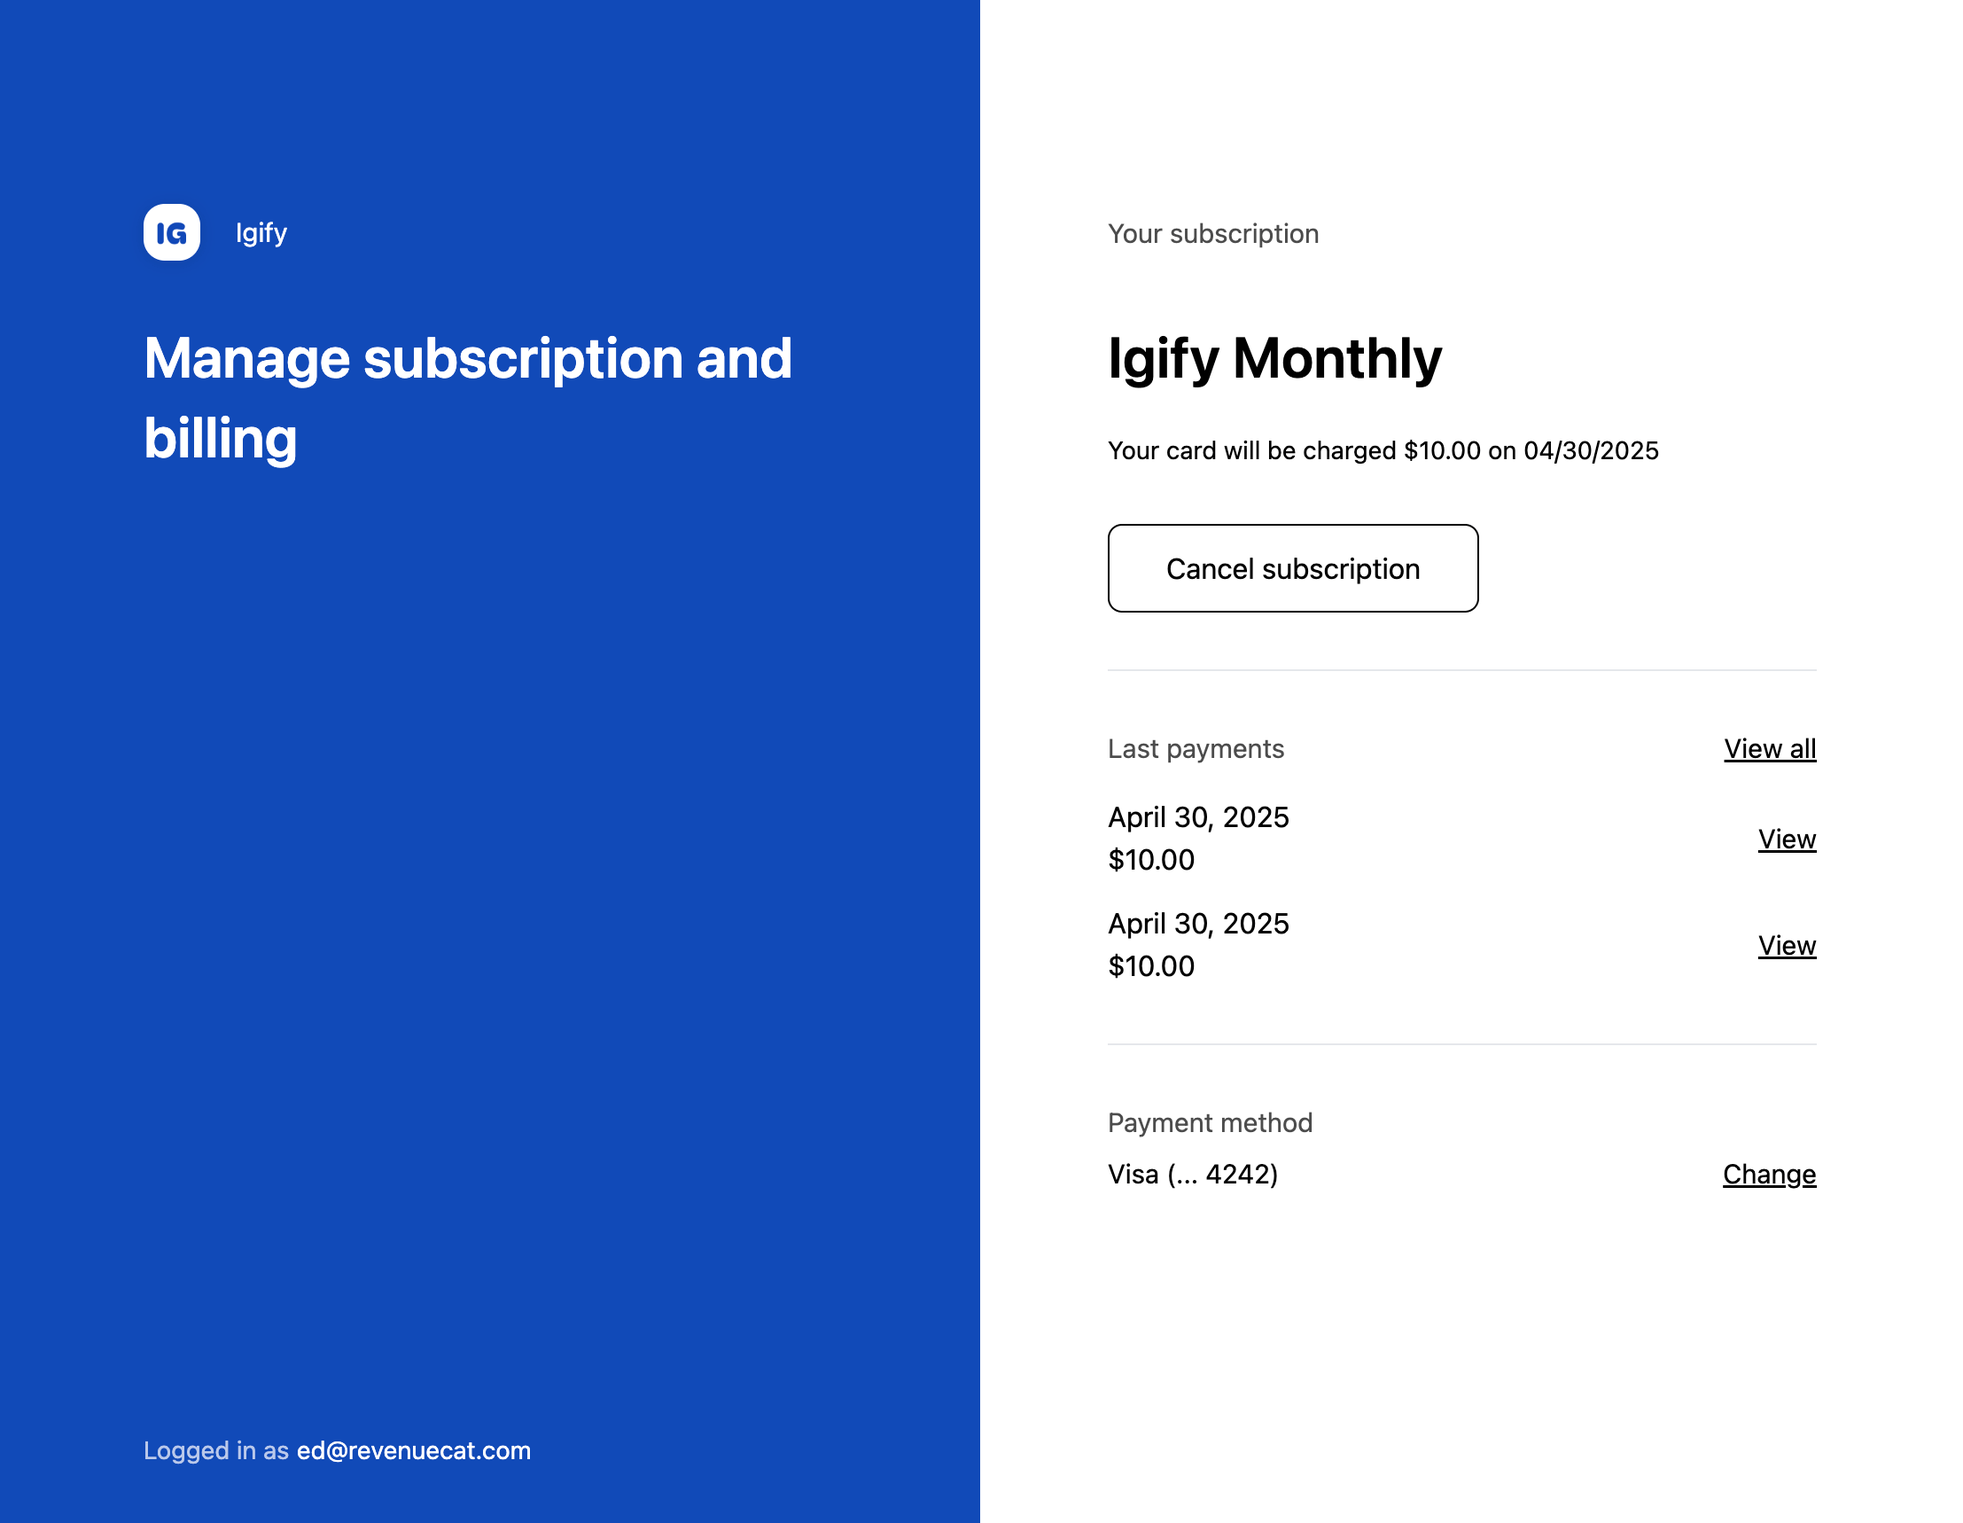
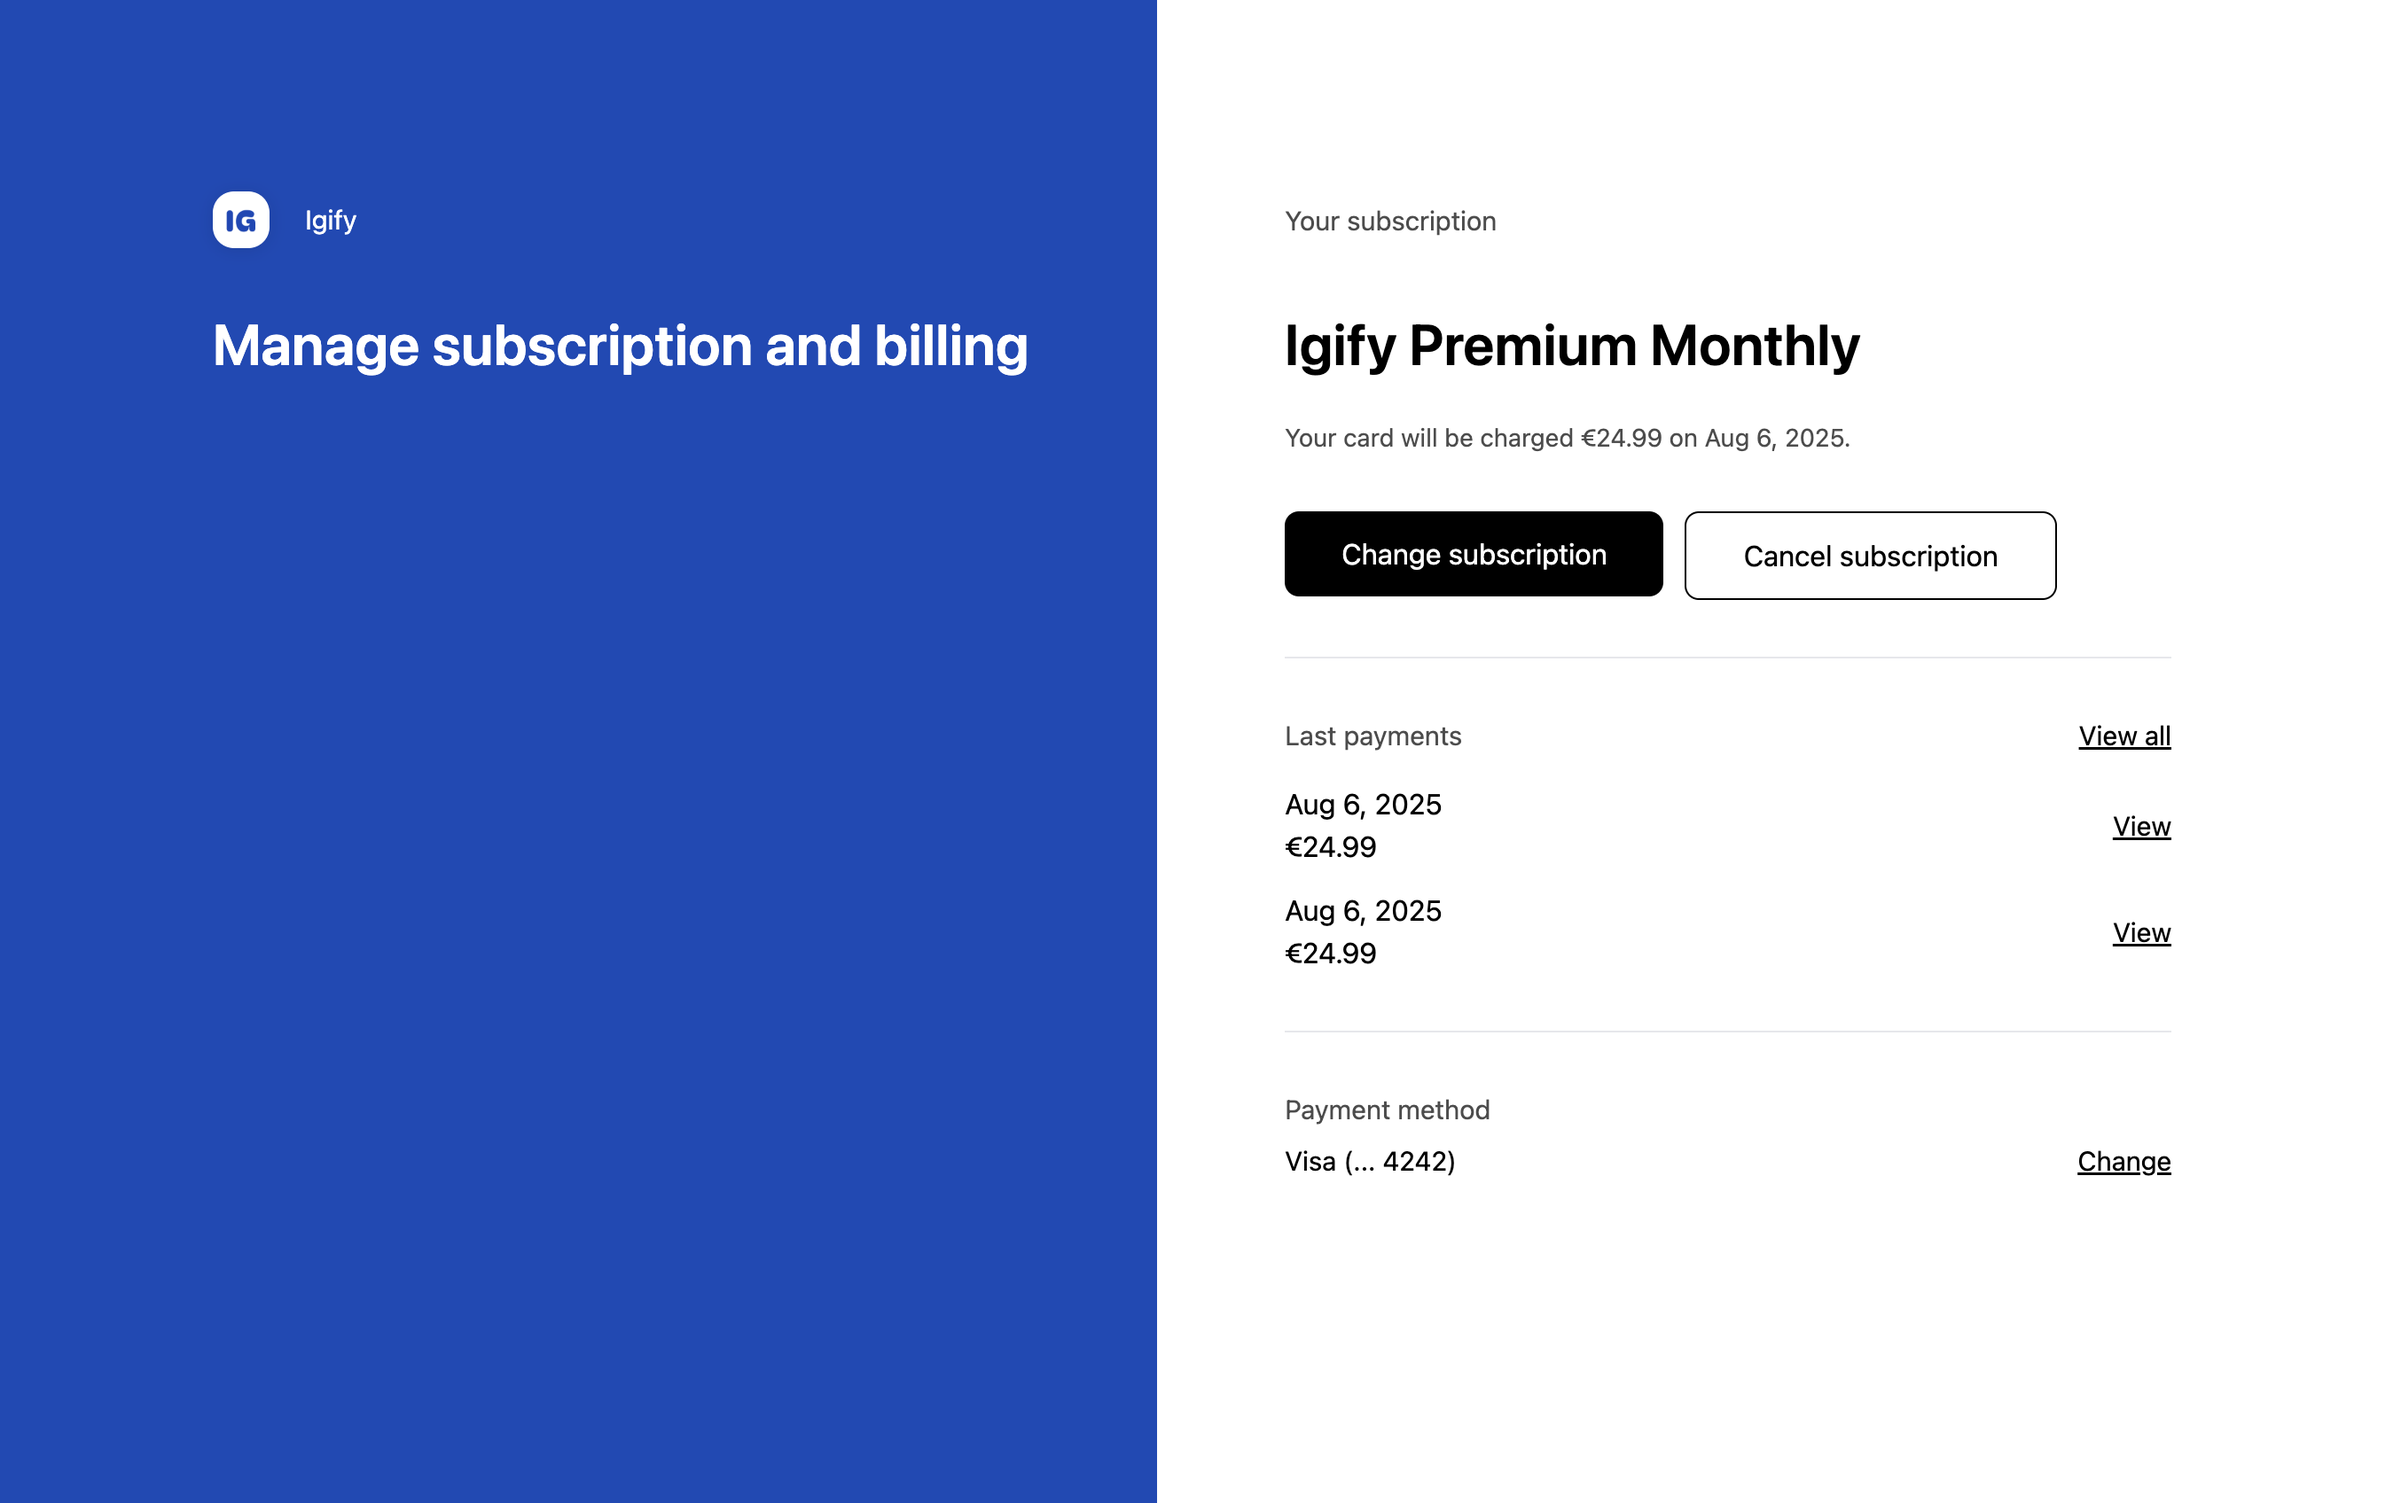
[Web Billing] Subscription upgrades (#1053)
* Documentation of subscription upgrades

* changes to customer portal page

* Update docs/web/web-billing/product-setup.md

* Update docs/web/web-billing/customer-portal.mdx

* Update docs/web/web-billing/product-setup.md

* Update docs/web/web-billing/product-setup.md

* Add note about beta access

---------

diff --git a/docs/web/web-billing/product-setup.md b/docs/web/web-billing/product-setup.md
@@ -1,9 +1,19 @@
 ---
 title: Configure Products & Prices
+
 slug: product-setup
-excerpt: Setting up your web products and pricing structure
+excerpt: Setting up your web products, pricing structure and upgrade paths
 hidden: false
 ---
+
+# Configure Web Billing products & prices
+
+Web Billing products are created and managed within the RevenueCat Dashboard.
+
+On this page, you can learn how to:
+
+- [Create a product and configure its pricing](#creating-a-new-web-billing-product)
+- [Configure subscription changes](#configure-subscription-changes)
 
 ## Creating a new web billing product
 
@@ -15,7 +25,7 @@ To create a new Web Billing product, log in to the RevenueCat dashboard.
 
 ![New product button in the products screen](/docs_images/web/web-billing/new-product.png)
 
-## Configuring the product
+### Configuring the product & pricing
 
 In the "new product" screen, you can set up the following aspects of the product:
 
@@ -112,3 +122,59 @@ Only one base price can be set per currency. [Read more about multi-currency sup
 :::warning Changing prices not currently possible
 Once you've saved the product, it's only possible to add prices for new currencies, and not edit existing ones. If you need to change pricing, we recommend you create a new product with the desired pricing, and replace the existing product in your offering. We're working on fully supporting pricing changes and migrations in the future.
 :::
+
+## Configure subscription changes
+
+:::warning Beta feature
+
+This feature is currently available as an invite-only beta. If you're interested in getting early access, [let us know](https://form.typeform.com/to/GWopiGbe)!
+
+Currently, it's only possible to enable upgrades between products. We're planning to release support for downgrades very soon.
+
+:::
+
+You can allow customers to change their subscription from the Customer Portal, and upgrade to a different product.
+
+To enable this, you first need to create upgrade or downgrade paths between your web billing products. Customers can only move between products when an explicit path is defined between them.
+
+![Upgrades in Customer Portal](/docs_images/web/web-billing/customer-portal-subscription-changes.png)
+
+### Upgrade behavior
+
+When a customer chooses to upgrade their subscription:
+
+- Access to their new product is granted immediately
+- Access to their existing product is revoked immediately
+- Existing free trials are ended immediately, and are not carried over to the new product
+- The customer is charged the full amount for the new product's price immediately
+- A partial refund is issued for any unused time on the existing subscription
+
+:::info Upgrades must use same currency
+
+Customers are only able to upgrade to a product that has a price in their existing currency. Products without a price in their currency will not be presented as possible upgrades.
+
+:::
+
+### Defining upgrade paths
+
+1. Log in to the RevenueCat dashboard and select your project
+1. Go to the **Product catalog** and select the **Products** tab
+1. Scroll to your web billing provider, and click the **Subscription changes** button in the table header
+1. Click **Edit**
+1. In the first dropdown list, select the product you want customers to be able to upgrade from (source product)
+1. In the "can be upgraded to" list, select one or more products you want customers to be able to upgrade to (destination products)
+1. (Optional) add more rules for different products
+1. Click **Save rules**
+
+### Testing subscription upgrades
+
+Customers subscribed to a product that has upgrade paths defined will see a **Change subscription** option in the [customer portal](customer-portal).
+
+To test this:
+
+1. Complete a sandbox purchase for a product that has upgrade paths defined
+1. Open the sandbox purchase receipt email
+1. Click the link to "update or manage your subscription" in the footer
+1. In the customer portal, select **Change subscription**
+1. Verify that the products shown are intended as upgrades
+1. Repeat the steps to test upgrades from any other products
